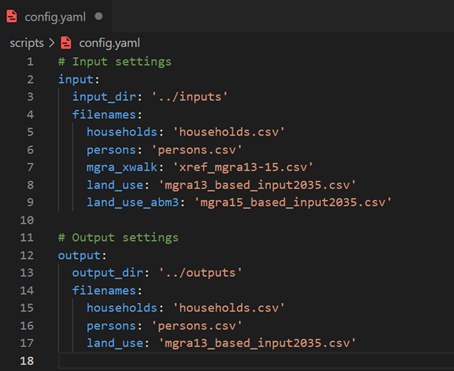
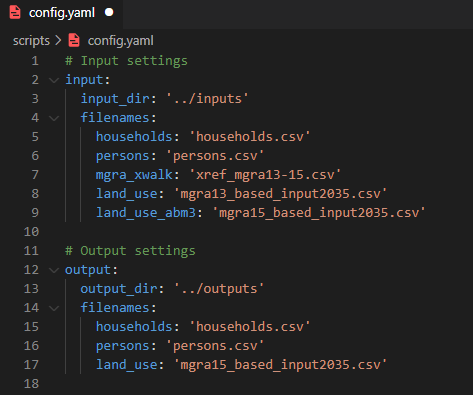
Updates per review comments

Changed region(s): [[0.0, 0.0, 0.8943, 1.0], [0.1233, 0.6226, 0.8018, 0.9488], [0.37, 0.2372, 0.5242, 0.2965]]

diff --git a/conversion_sr14_sr15/README.md b/conversion_sr14_sr15/README.md
@@ -20,7 +20,7 @@ The synthetic household and person files undergo minimal processing. For the hou
 
 ### Land Use
 The land use file undergoes extensive processing. There are three major procedures implemented depending on the columns: 
-1) The converted SR14 synthetic population is used to populate household and person total columns 
+1) The SR15 synthetic population is used to populate household and person total columns 
 
 2) Some ABM3 columns are maintained in the output MGRA file exactly as they are specified in the input file 
 
@@ -55,7 +55,7 @@ To run the conversion, two files are required:
 1.	_config.yaml_ – which contains input and output directories and file names
 2.	_conversion_sr14_sr15.py_ – which contains the code to convert the files 
 
-User should clone (or download) these files to their local directory. Next, follow the steps below to convert Series 14 data to Series 15 format:  
+User should clone (or download) these files to their local directory. The script runs using the base Anaconda3 environment, so no additional environment setup is required. Next, follow the steps below to convert Series 14 data to Series 15 format:  
 1.	Save the input files in the directory of your choice. Input files should include: 
     - Series 14 synthetic person file
     - Series 14 synthetic household file
